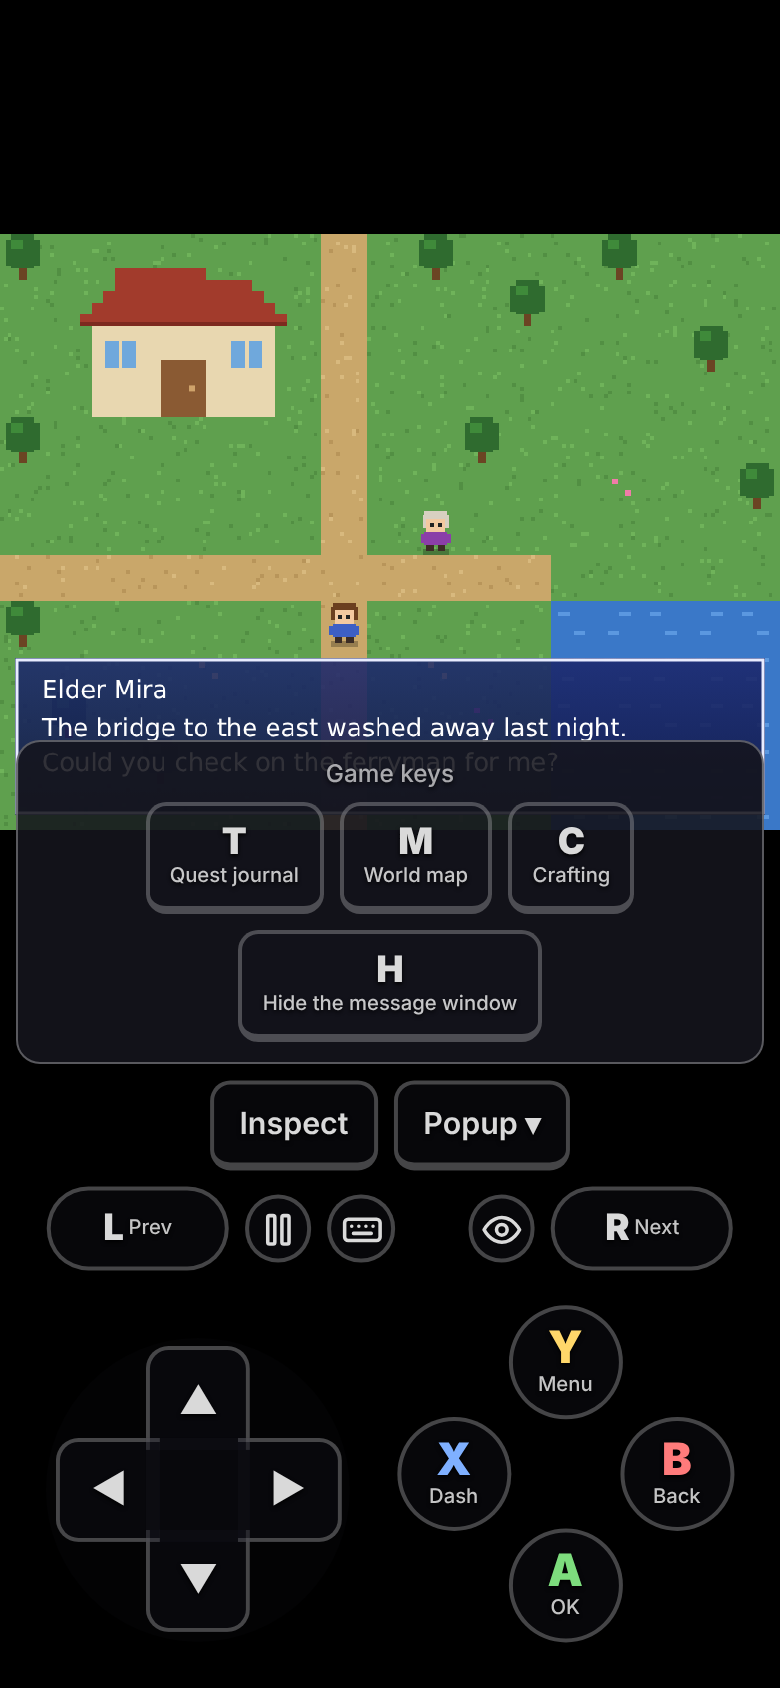
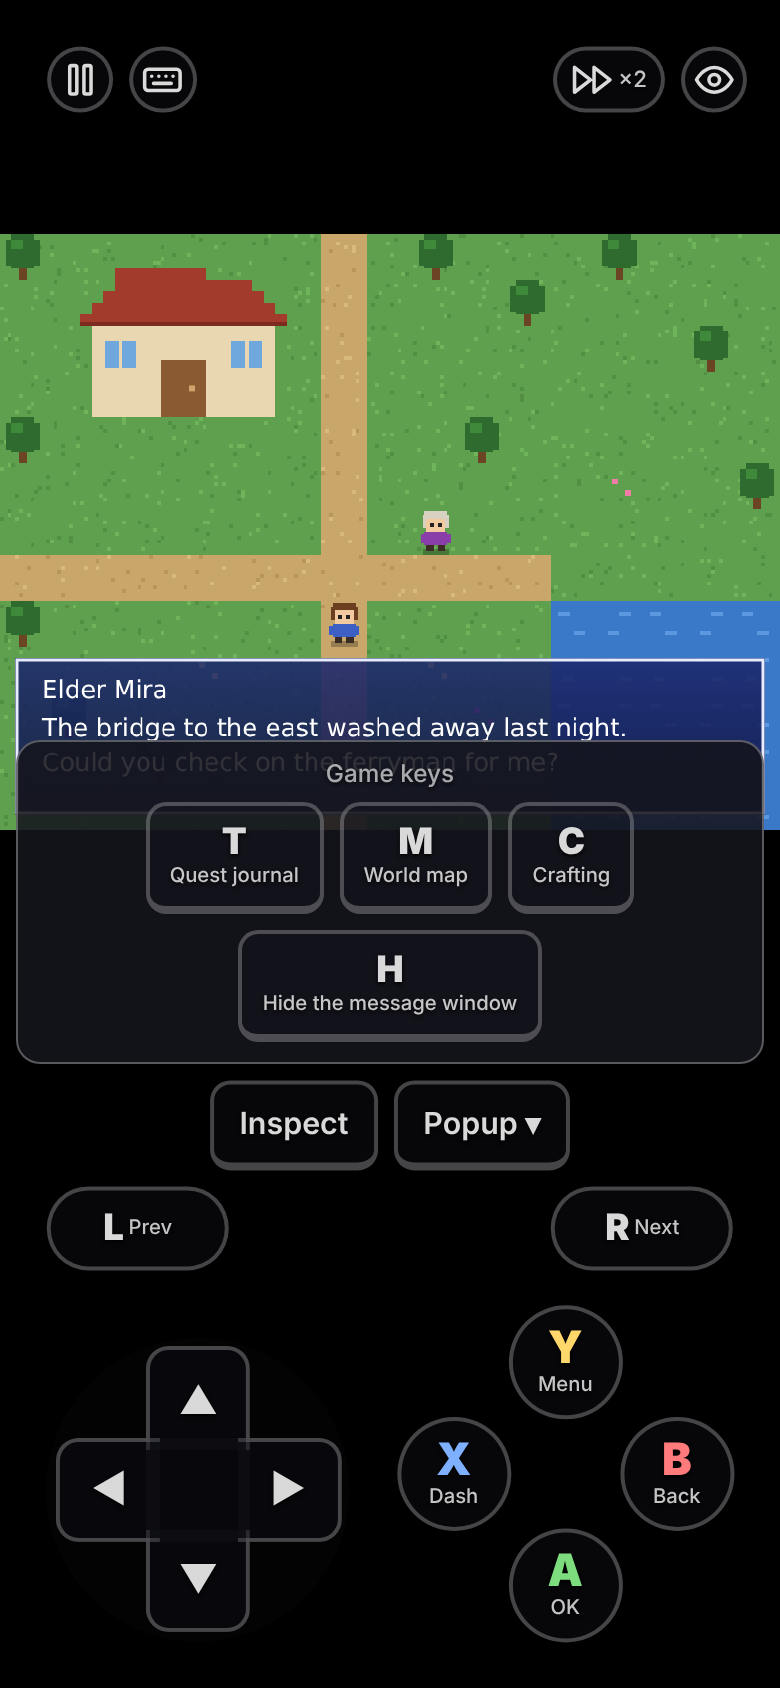
feat(runtime): add fast forward ×2 / ×3 / ×4
New RWK_Speed plugin: the scene updates 2–4 times per frame (input is read
again before each extra update, so a key press triggers once). Sound and
movies keep their normal speed; it stops while the ⏸ menu is open.

- ⏩ ×N in the touch toolbar: tap toggles, hold fast-forwards while held;
  it stays visible when the controls are hidden.
- Keyboard: ` toggles, held Tab fast-forwards, unless a game plugin uses them.
- ⏸ → Fast forward / Fast-forward speed (remembered per browser).
- `fastForward: false` in the config or the creator's rwk-policy.json turns it off.
- Portrait: the toolbar moves to the top corners when it no longer fits
  between L and R.

Claude-Session: https://claude.ai/code/session_01Cdpu6Muw3eFLmoinKYnMyT

diff --git a/runtime/RWK_Speed.js b/runtime/RWK_Speed.js
@@ -1,0 +1,153 @@
+//=============================================================================
+// RWK_Speed.js - rpgmaker-web-toolkit
+// Required Notice: Copyright 2026 Trương Tuấn Anh (https://github.com/Kokoroou)
+// License: PolyForm Noncommercial 1.0.0 with the Game Creators permission,
+// https://github.com/Kokoroou/rpgmaker-web-toolkit/blob/main/LICENSE
+// Fast forward ×2 / ×3 / ×4: the scene updates several times per frame, so
+// walking, battles, animations and text all run faster. Sound and movies keep
+// their normal speed.
+//=============================================================================
+/*:
+ * @target MZ MV
+ * @plugindesc [rpgmaker-web-toolkit] Fast forward. Requires RWK_Core.
+ * @author rpgmaker-web-toolkit
+ */
+
+(() => {
+  "use strict";
+
+  const RWK = window.RWK;
+  if (!RWK || RWK.config.fastForward === false) return;
+
+  const SPEEDS = [2, 3, 4];
+  const SPEED_KEY = "rwk.speed." + RWK.config.gameId;
+  const HOLD_MS = 300; // pressing ⏩ longer than this fast-forwards only while held
+
+  let speed = SPEEDS.includes(RWK.storage.get(SPEED_KEY)) ? RWK.storage.get(SPEED_KEY) : SPEEDS[0];
+  let toggled = false; // ⏩ tapped, or ` pressed
+  let holds = 0; // ⏩ or Tab held down
+  const factor = () => (toggled || holds > 0 ? speed : 1);
+
+  //---------------------------------------------------------------------------
+  // Each extra update reads input again first, as the engine does every
+  // frame, so a key press triggers once instead of once per update. Stops
+  // early when the scene changes; the next frame starts the new one.
+  //---------------------------------------------------------------------------
+
+  const sceneStarted = (sm) =>
+    sm._scene && (sm._scene.isStarted ? sm._scene.isStarted() : sm.isCurrentSceneStarted());
+
+  const _updateScene = SceneManager.updateScene;
+  SceneManager.updateScene = function () {
+    _updateScene.apply(this, arguments);
+    for (let i = factor(); i > 1; i--) {
+      if (RWK.tools.isOpen() || this.isSceneChanging() || !sceneStarted(this)) break;
+      this.updateInputData();
+      if (this.updateEffekseer) this.updateEffekseer(); // MZ battle animations
+      _updateScene.apply(this, arguments);
+    }
+  };
+
+  //---------------------------------------------------------------------------
+  // Controls: ⏩ in the touch toolbar (tap: on / off, hold: only while held),
+  // ` and held Tab on a keyboard, and the speed in the ⏸ menu.
+  //---------------------------------------------------------------------------
+
+  let button = null;
+
+  function refresh() {
+    if (!button) return;
+    button.classList.toggle("rwk-active", factor() > 1);
+    button.querySelector("small").textContent = "×" + speed;
+  }
+
+  function setToggled(on) {
+    toggled = on;
+    refresh();
+    RWK.toast(on ? `Fast forward ×${speed}` : "Normal speed", "info", 1200);
+  }
+
+  function setSpeed(value) {
+    speed = value;
+    RWK.storage.set(SPEED_KEY, speed);
+    refresh();
+  }
+
+  function hold(on) {
+    holds = Math.max(0, holds + (on ? 1 : -1));
+    refresh();
+  }
+
+  RWK.tools.add({
+    icon: RWK.icons.fastForward,
+    group: "play",
+    label: "Fast forward",
+    detail: () => (toggled ? `On at ×${speed}` : "Off") + (button ? "" : " · ` turns it on or off, hold Tab for a moment"),
+    keepOpen: true,
+    onSelect: () => setToggled(!toggled),
+  });
+  RWK.tools.add({
+    icon: RWK.icons.gauge,
+    group: "play",
+    label: () => `Fast-forward speed: ×${speed}`,
+    detail: () => `Tap for ×${SPEEDS[(SPEEDS.indexOf(speed) + 1) % SPEEDS.length]}`,
+    keepOpen: true,
+    onSelect: () => setSpeed(SPEEDS[(SPEEDS.indexOf(speed) + 1) % SPEEDS.length]),
+  });
+
+  if (RWK.controls) {
+    const style = document.createElement("style");
+    style.textContent = `
+.rwk-tool.rwk-tool-speed{width:auto;min-width:calc(var(--u)*.66);padding:0 .45em;gap:.15em;border-radius:999px}
+.rwk-tool.rwk-tool-speed small{font-size:calc(var(--u)*.22)}
+.rwk-tool.rwk-tool-speed.rwk-active{background:rgba(90,140,255,.8);border-color:#fff}
+`;
+    document.head.appendChild(style);
+    let timer = 0;
+    let held = false;
+    button = RWK.controls.addTool(
+      RWK.icons.fastForward + "<small></small>",
+      "rwk-tool-speed",
+      () => {
+        clearTimeout(timer);
+        if (held) {
+          held = false;
+          hold(false);
+        } else setToggled(!toggled);
+      },
+      "Fast forward (tap: on / off, hold: while held)",
+      "right",
+      () => {
+        clearTimeout(timer);
+        timer = setTimeout(() => {
+          held = true;
+          hold(true);
+        }, HOLD_MS);
+      }
+    );
+    refresh();
+  }
+
+  // ` toggles and a held Tab fast-forwards, unless the game's plugins use those keys.
+  const free = (code, name) => !Input.keyMapper[code] || Input.keyMapper[code] === name;
+  let tabHeld = false;
+  window.addEventListener("keydown", (e) => {
+    if (RWK.tools.isOpen() || e.ctrlKey || e.altKey || e.metaKey) return;
+    if (e.keyCode === 192 && !e.repeat && free(192)) {
+      setToggled(!toggled);
+    } else if (e.keyCode === 9 && free(9, "tab")) {
+      e.preventDefault();
+      if (!tabHeld) {
+        tabHeld = true;
+        hold(true);
+      }
+    }
+  });
+  const releaseTab = () => {
+    if (!tabHeld) return;
+    tabHeld = false;
+    hold(false);
+  };
+  window.addEventListener("keyup", (e) => e.keyCode === 9 && releaseTab());
+  window.addEventListener("blur", releaseTab);
+})();

diff --git a/runtime/RWK_MobileControls.js b/runtime/RWK_MobileControls.js
@@ -117,7 +117,7 @@
   color:rgba(255,255,255,.85);font:600 calc(var(--u)*.3)/1 system-ui,sans-serif;text-shadow:0 1px 2px #000;
   -webkit-user-select:none;user-select:none;-webkit-touch-callout:none;-webkit-tap-highlight-color:transparent}
 .rwk-pad *{box-sizing:border-box}
-.rwk-pad.hidden>:not(.rwk-tools),.rwk-pad.hidden .rwk-tool:not(.rwk-tool-toggle):not(.rwk-tool-menu){display:none}
+.rwk-pad.hidden>:not(.rwk-tools),.rwk-pad.hidden .rwk-tool:not(.rwk-tool-toggle):not(.rwk-tool-menu):not(.rwk-tool-speed){display:none}
 .rwk-item{position:absolute;transform:translate(-50%,-50%);transition:opacity .4s}
 .rwk-pad.idle:not(.editing) .rwk-item,.rwk-pad.idle:not(.editing) .rwk-tools{opacity:.45}
 .rwk-hit{pointer-events:auto;touch-action:none}
@@ -455,18 +455,18 @@
   //---------------------------------------------------------------------------
   // Toolbar, in two groups: ⏸ menu and ⌨ game keys on the left, show/hide
   // on the right. Top corners in landscape; in portrait both groups sit on
-  // the L/R line, next to L and R.
+  // the L/R line, next to L and R, or in the top corners when they do not fit.
   //---------------------------------------------------------------------------
 
   const toolbarLeft = el("div", "rwk-tools");
   const toolbarRight = el("div", "rwk-tools");
   pad.append(toolbarLeft, toolbarRight);
-  function addTool(label, extraClass, onTap, name, group = toolbarLeft) {
+  function addTool(label, extraClass, onTap, name, group = toolbarLeft, onDown = () => {}) {
     const btn = el("div", "rwk-btn rwk-tool " + extraClass, label);
     btn.setAttribute("role", "button");
     btn.setAttribute("aria-label", name);
     btn.title = name;
-    bindPress(btn, null, () => {}, onTap);
+    bindPress(btn, null, onDown, onTap);
     group.appendChild(btn);
     return btn;
   }
@@ -574,9 +574,12 @@
 
   function layoutTools() {
     const h = toolbarLeft.offsetHeight || toolbarRight.offsetHeight;
-    // Docked: next to L and R (their outer edge is margin + 1.8u from the side).
-    const inset = docked() ? margin() + (gamepadOn ? unit() * 1.8 + 8 : 0) : margin();
-    const top = docked() ? vh() - (gamepadOn ? shoulderY() : margin() + clusterHeight() + h) : margin() + h / 2;
+    // Docked: next to L and R (their outer edge is margin + 1.8u from the side),
+    // or in the top corners when the two groups don't fit between them.
+    let inset = docked() ? margin() + (gamepadOn ? unit() * 1.8 + 8 : 0) : margin();
+    const nextToLR = docked() && toolbarLeft.offsetWidth + toolbarRight.offsetWidth + 16 <= vw() - 2 * inset;
+    if (!nextToLR) inset = margin();
+    const top = nextToLR ? vh() - (gamepadOn ? shoulderY() : margin() + clusterHeight() + h) : margin() + h / 2;
     toolbarLeft.style.left = inset + toolbarLeft.offsetWidth / 2 + "px";
     toolbarRight.style.left = vw() - inset - toolbarRight.offsetWidth / 2 + "px";
     toolbarLeft.style.top = toolbarRight.style.top = top + "px";
@@ -688,10 +691,11 @@
   if (screen.orientation && screen.orientation.addEventListener) screen.orientation.addEventListener("change", relayout);
 
   // Lets later plugins add buttons to the toolbar (other options go in the
-  // ⏸ menu, RWK.tools, instead). side "right" puts it before the eye.
+  // ⏸ menu, RWK.tools, instead). side "right" puts it before the eye;
+  // onDown runs when the button is pressed, onTap when it is released.
   RWK.controls = {
-    addTool(label, extraClass, onTap, name, side) {
-      const btn = addTool(label, extraClass, onTap, name, side === "right" ? toolbarRight : toolbarLeft);
+    addTool(label, extraClass, onTap, name, side, onDown) {
+      const btn = addTool(label, extraClass, onTap, name, side === "right" ? toolbarRight : toolbarLeft, onDown);
       if (side === "right") toolbarRight.insertBefore(btn, toggleBtn);
       layout();
       return btn;

diff --git a/test/cli.test.js b/test/cli.test.js
@@ -101,8 +101,9 @@ test("creator policy: parsing, strict fallback, feature locks", () => {
   assert.equal(parsePolicy({}).problems.length, 1);
 
   const cfg = { slug: "g", sync: { enabled: true }, saveTools: true };
-  const locked = applyPolicy(cfg, parsePolicy({ hosting: "personal", features: { saveTools: false, sync: false } }));
+  const locked = applyPolicy(cfg, parsePolicy({ hosting: "personal", features: { saveTools: false, fastForward: false, sync: false } }));
   assert.equal(locked.saveTools, false);
+  assert.equal(locked.fastForward, false);
   assert.equal(locked.sync.enabled, false);
   assert.equal(cfg.sync.enabled, true, "the stored config is left alone");
   assert.equal(applyPolicy(cfg, null), cfg);
@@ -238,6 +239,7 @@ test("web build: runtime plugins and the toolkit version for the problem report"
   fs.writeFileSync(path.join(root, "index.html"), "<html><head></head><body></body></html>");
   const out = generatedFiles({ root, engine: "MZ", title: "G" }, { slug: "g", sync: {} });
   assert.ok(out.has("js/plugins/RWK_Report.js"));
+  assert.ok(out.has("js/plugins/RWK_Speed.js"));
   const js = out.get("js/plugins.js");
   const core = JSON.parse(/\$plugins\.push\((\{"name":"RWK_Core".*\})\);/.exec(js)[1]);
   const pkg = JSON.parse(fs.readFileSync(new URL("../package.json", import.meta.url), "utf8"));

diff --git a/cli/lib/policy.js b/cli/lib/policy.js
@@ -4,7 +4,7 @@
 //
 //   {
 //     "hosting": "personal" | "shared" | "public" | "none",
-//     "features": { "saveTools": false, "itemBatch": false, "sync": false },
+//     "features": { "saveTools": false, "itemBatch": false, "fastForward": false, "sync": false },
 //     "message": "Shown to whoever publishes the game",
 //     "contact": "https://example.com/contact"
 //   }
@@ -15,7 +15,7 @@ import path from "node:path";
 export const POLICY_FILE = "rwk-policy.json";
 export const HOSTING_LEVELS = ["none", "personal", "shared", "public"];
 // Features a policy can force off, mapped to how the game config spells them.
-const FEATURE_KEYS = ["saveTools", "itemBatch", "sync"];
+const FEATURE_KEYS = ["saveTools", "itemBatch", "fastForward", "sync"];
 
 // -> null (no policy file) | { hosting, features, message, contact, file, problems }
 export function readPolicy(game) {
@@ -66,6 +66,7 @@ export function applyPolicy(cfg, policy) {
   const out = { ...cfg };
   if (policy.features.saveTools === false) out.saveTools = false;
   if (policy.features.itemBatch === false) out.itemBatch = false;
+  if (policy.features.fastForward === false) out.fastForward = false;
   if (policy.features.sync === false) out.sync = { ...cfg.sync, enabled: false };
   return out;
 }

diff --git a/cli/lib/stage.js b/cli/lib/stage.js
@@ -9,7 +9,7 @@ import { TOOLKIT_ROOT } from "./config.js";
 import { mobileOnlyMissing } from "./game.js";
 import { isIndexable } from "./policy.js";
 
-export const RUNTIME_PLUGINS = ["RWK_Core", "RWK_SaveSync", "RWK_MobileControls", "RWK_SaveTools", "RWK_ItemBatch", "RWK_Report"];
+export const RUNTIME_PLUGINS = ["RWK_Core", "RWK_SaveSync", "RWK_MobileControls", "RWK_Speed", "RWK_SaveTools", "RWK_ItemBatch", "RWK_Report"];
 
 // Shown in the in-game problem report (RWK_Report).
 const TOOLKIT_VERSION = JSON.parse(fs.readFileSync(path.join(TOOLKIT_ROOT, "package.json"), "utf8")).version;
@@ -89,6 +89,7 @@ export function generatedFiles(game, gameConfig, files = []) {
     controls: gameConfig.controls || null,
     saveTools: gameConfig.saveTools !== false,
     itemBatch: gameConfig.itemBatch !== false,
+    fastForward: gameConfig.fastForward !== false,
   };
   if (game.engine === "MV") {
     const missing = mobileOnlyMissing(files);

diff --git a/site/screenshots/simulator.html b/site/screenshots/simulator.html
@@ -94,7 +94,10 @@
     isDatabaseLoaded: () => true,
     createGameObjects() {},
   };
-  window.SceneManager = { _scene: new Scene_Map(), catchException() {}, updateScene() {} };
+  window.SceneManager = {
+    _scene: new Scene_Map(), catchException() {}, updateScene() {}, updateInputData() {},
+    isSceneChanging: () => false, isCurrentSceneStarted: () => true,
+  };
   window.AudioManager = { createBuffer() {}, audioFileExt: () => ".ogg" };
   window.WebAudio = { _context: null };
   window.StorageManager = {
@@ -130,6 +133,7 @@
 <script src="../../runtime/RWK_Core.js"></script>
 <script src="../../runtime/RWK_SaveSync.js"></script>
 <script src="../../runtime/RWK_MobileControls.js"></script>
+<script src="../../runtime/RWK_Speed.js"></script>
 <script src="../../runtime/RWK_SaveTools.js"></script>
 <script src="../../runtime/RWK_ItemBatch.js"></script>
 <script src="../../runtime/RWK_Report.js"></script>

diff --git a/runtime/RWK_Core.js b/runtime/RWK_Core.js
@@ -296,6 +296,8 @@
     check: svg('<path d="M5 12l5 5L20 7"/>'),
     reset: svg('<path d="M3 12a9 9 0 1 0 3-6.7L3 8"/><path d="M3 3v5h5"/>'),
     save: svg('<path d="M5 3h11l5 5v11a2 2 0 0 1-2 2H5a2 2 0 0 1-2-2V5a2 2 0 0 1 2-2z"/><path d="M7 3v5h8V3M7 21v-7h10v7"/>'),
+    fastForward: svg('<path d="M13 19l9-7-9-7zM2 19l9-7-9-7z"/>'),
+    gauge: svg('<path d="M12 14l4-4"/><path d="M3.34 19a10 10 0 1 1 17.32 0"/>'),
     items: svg('<path d="M12 2l10 5-10 5L2 7z"/><path d="M2 12l10 5 10-5M2 17l10 5 10-5"/>'),
     bug: svg(
       '<path d="M8 2l1.9 1.9M14.1 3.9L16 2M9 7.1v-1a3 3 0 1 1 6 0v1"/>' +

diff --git a/site/play/speed.md b/site/play/speed.md
@@ -1,0 +1,15 @@
+# Fast forward
+
+Speeds up the whole game ×2, ×3 or ×4: walking, battles, animations, text and cutscenes. Music and sound keep their normal speed.
+
+![The ⏩ ×2 button in the toolbar, next to 👁](/img/controls-landscape.png){.shot .landscape}
+
+| On | Turn on / off | Only while held |
+|---|---|---|
+| Phone or tablet | Tap **⏩** in the toolbar (it lights up while on) | Hold **⏩** |
+| PC | <kbd>`</kbd> (the key left of 1) | Hold <kbd>Tab</kbd> |
+| Anywhere | ⏸ → **Fast forward** | |
+
+Pick the speed with ⏸ → **Fast-forward speed**. It is remembered in this browser; fast forward itself starts off each time.
+
+The keys do nothing when one of the game's plugins already uses them. Fast forward stops while the ⏸ menu is open, and some sites have it turned off by the person who set up the game or by the game's creator.

diff --git a/site/reference/how-it-works.md b/site/reference/how-it-works.md
@@ -6,6 +6,7 @@ run.ps1 ─► cli/            Node CLI: analyzes the game, builds a temporary w
              RWK_Core            config, device id, toasts, dialogs, ⏸ menu, web build label
              RWK_SaveSync        save sync (MZ: localforage, MV: localStorage)
              RWK_MobileControls  on-screen buttons, driven through Input._currentState
+             RWK_Speed           fast forward: the scene updates 2–4 times per frame
              RWK_SaveTools       save export / import / delete (desktop save file format)
              RWK_ItemBatch       use several items at once (MZ / MV adapter for the common event queue)
              RWK_Report          problem report: latest errors, audio state, files that failed to load

diff --git a/site/play/index.md b/site/play/index.md
@@ -35,6 +35,7 @@ Or tap ⏸ → **Full screen** in the game. It also turns a landscape game sidew
 |---|---|
 | Phone or tablet | The on-screen gamepad: [Touch controls](/play/controls) |
 | PC | Keyboard or a controller, as in the desktop game |
+| ⏩ | [Fast forward](/play/speed) ×2 / ×3 / ×4 |
 | ⏸ Menu | Full screen, [move buttons](/play/controls#move-or-hide-buttons), [manage save files](/play/save-files), [use several items at once](/play/items), [report a problem](#report-a-problem) |
 
 The game pauses while the ⏸ menu is open, sound included; ✕, Esc or a tap outside it resumes. On a PC, ⏸ is a faint button in the top-left corner, or press **F1**. Options the person who set up the game turned off are missing.

diff --git a/site/reference/config.md b/site/reference/config.md
@@ -17,6 +17,7 @@ Every key of a game's settings, as [`edit-config`](/setup/configuration) shows t
 | `controls.scannedKeys` | Plugin keys already seen, so updates only ask about new ones | No need |
 | `saveTools` | `false` removes ⏸ → Saves | Yes, unless the creator's [policy](/creators/policy) turns it off |
 | `itemBatch` | `false` turns off using several items at once | Same |
+| `fastForward` | `false` turns off [fast forward](/play/speed) | Same |
 | `savesImportedAt` | When desktop saves were last uploaded | No need |
 
 ::: warning Changing `auth`

diff --git a/site/play/controls.md b/site/play/controls.md
@@ -26,6 +26,7 @@ The controls fade after a few seconds without a touch. Touch the screen and they
 |---|---|
 | ⏸ | Pauses the game and opens the [menu](/play/#controls-and-tools): full screen, saves, button layout… |
 | ⌨ | **Game keys**: the game's extra keys, with what each one does |
+| ⏩ ×2 | [Fast forward](/play/speed): tap to turn on or off, hold to speed up only while held. Stays when the controls are hidden |
 | 👁 | Hide / show all the controls |
 
 ![The ⌨ Game keys panel](/img/game-keys.png){.shot .portrait}
